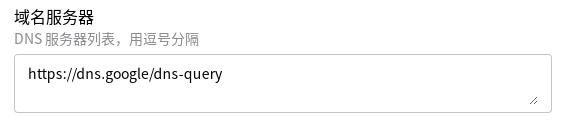
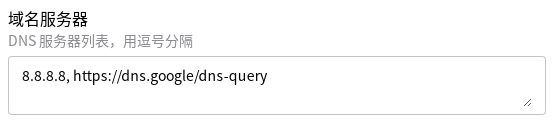
Clarify DNS overwrite: Google DNS 8.8.8.8 and DOH; update image

diff --git a/src/content/blog/2026/08/vmware-dual-vm-isolation-guide.md b/src/content/blog/2026/08/vmware-dual-vm-isolation-guide.md
@@ -62,6 +62,6 @@ B 虚拟机开启网络代理后，即可通过 A 虚拟机代理转发上网。
 
 **修改 DNS 覆写配置**：
 
-建议修改为 Google 公共 DNS DOH `https://dns.google/dns-query`，可以有效防止 DNS 泄露。
+建议修改为 Google 公共 DNS `8.8.8.8`，DOH `https://dns.google/dns-query`，可以有效防止 DNS 泄露。
 
 ![DNS 覆写-域名服务器](../../../../assets/vm-b-dns-overwrite.png)
